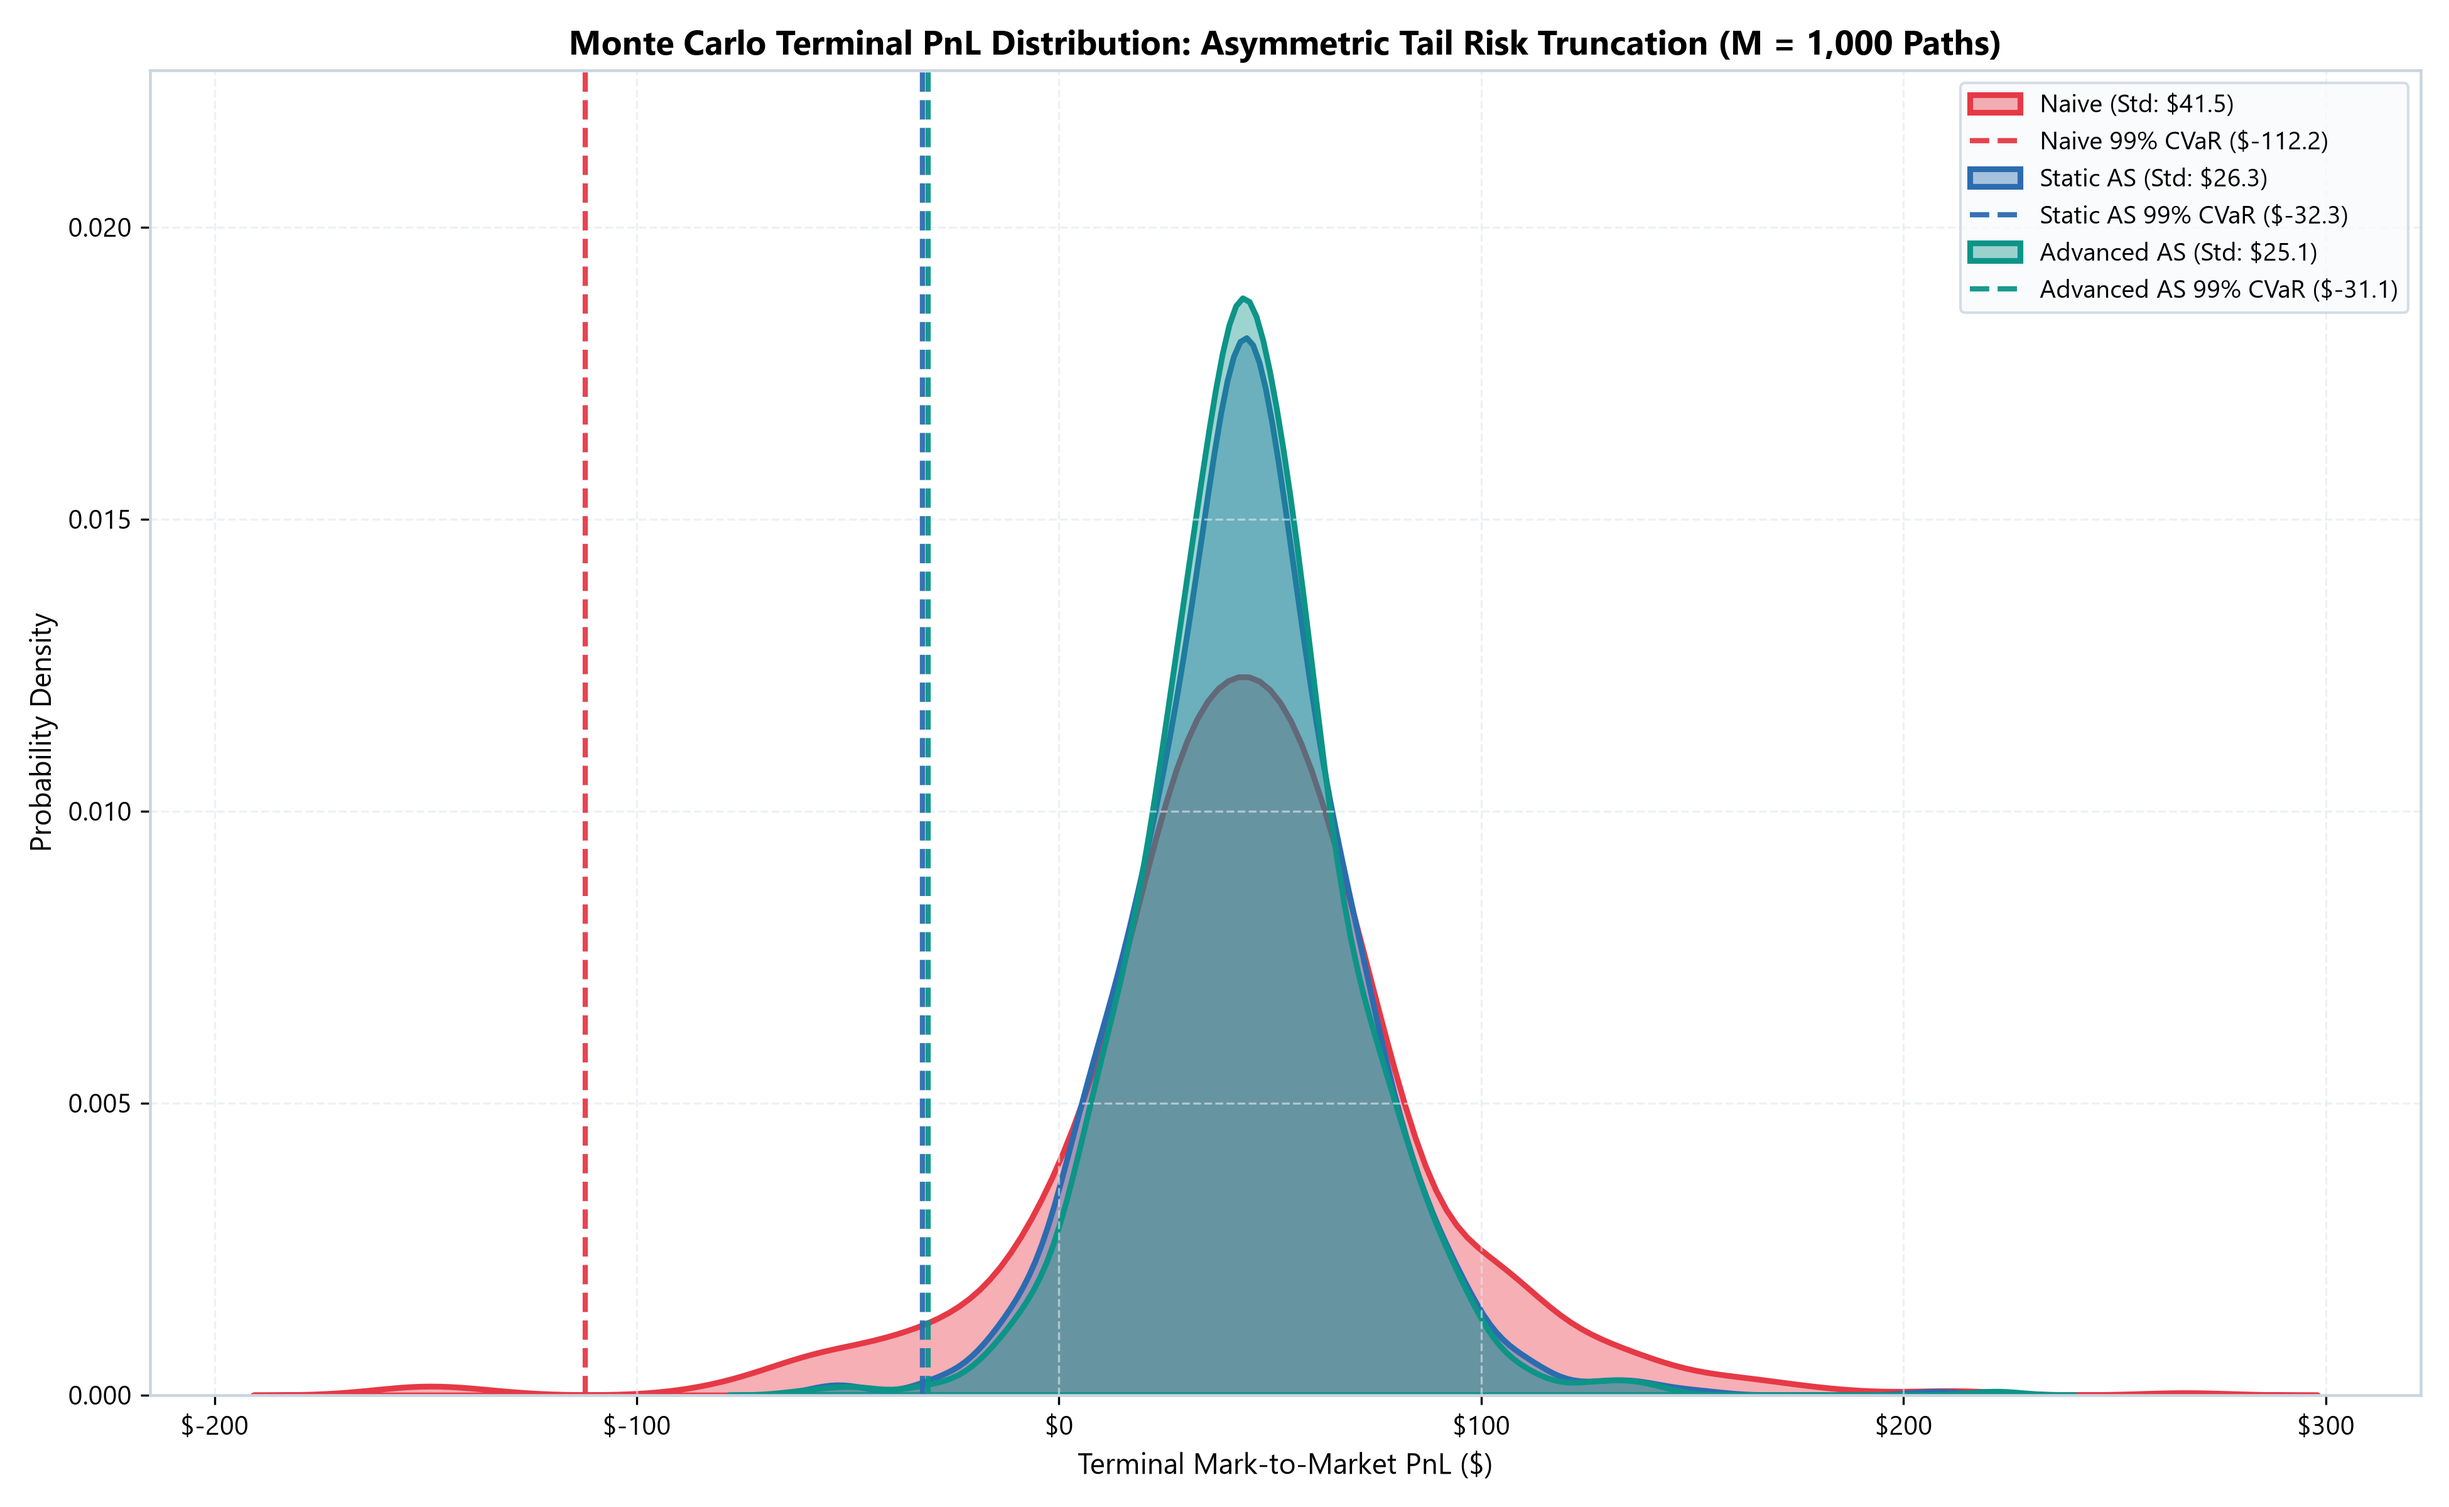
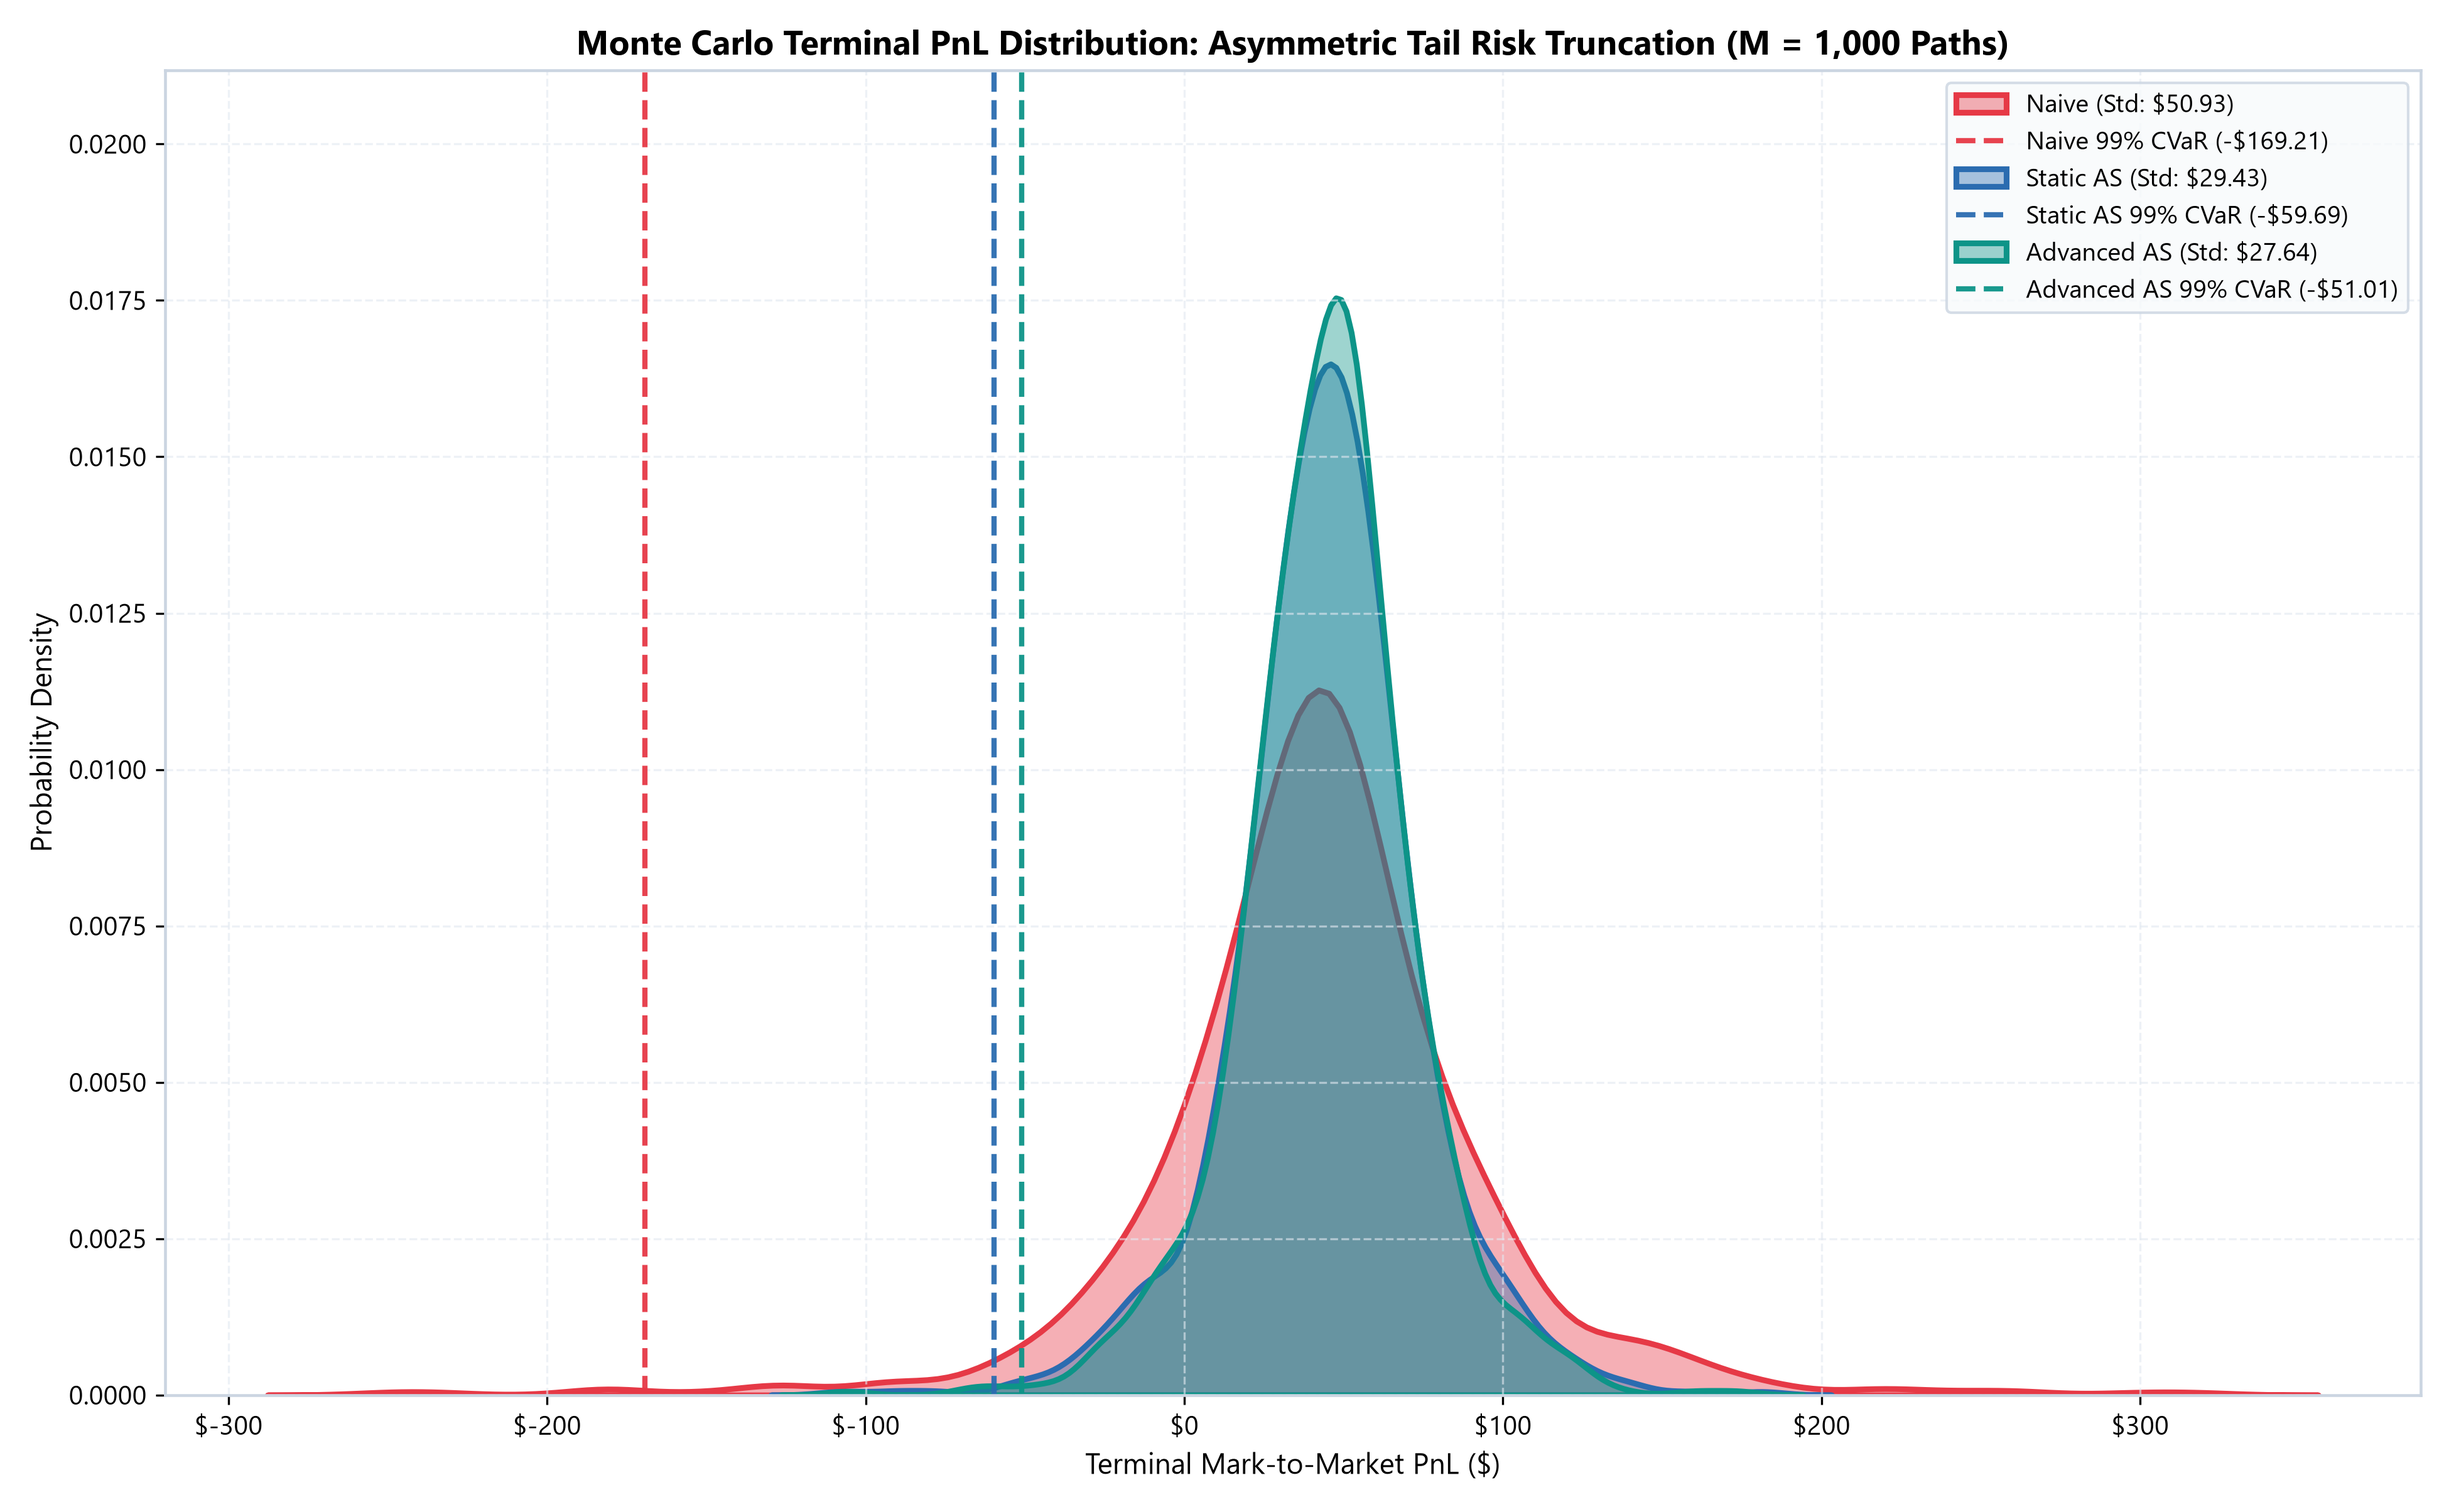
final review

diff --git a/src/monte_carlo.py b/src/monte_carlo.py
@@ -37,12 +37,14 @@ def _run_mc_kernel_adverse_selection(
     alpha: float,
     q_max: float,
     lot_size: float,
-    ema_window_sec: float = 60.0
+    ema_window_sec: float = 60.0,
+    seed: int = 42
 ):
     """
     Numba-accelerated Monte Carlo simulation with micro-price adverse selection
     and correlated jump-diffusion dynamics across M paths and N time steps.
     """
+    np.random.seed(seed)
     T = N * dt
     pnl_naive = np.zeros(M)
     pnl_static = np.zeros(M)
@@ -210,7 +212,8 @@ class MonteCarloEngine:
         alpha: float = 2.0,
         q_max: float = 5.0,
         lot_size: float = 0.01,
-        random_seed: int = 42
+        seed: int = 42,
+        random_seed: Optional[int] = None
     ):
         self.S0 = S0
         self.mu = mu
@@ -231,13 +234,15 @@ class MonteCarloEngine:
         self.alpha = alpha
         self.q_max = q_max
         self.lot_size = lot_size
-        self.random_seed = random_seed
+        self.seed = seed if random_seed is None else random_seed
+        self.random_seed = self.seed
 
-    def simulate(self) -> Dict[str, any]:
+    def simulate(self, seed: Optional[int] = None) -> Dict[str, any]:
         """
         Execute Monte Carlo simulation across all M paths with adverse selection dynamics.
         """
-        np.random.seed(self.random_seed)
+        sim_seed = self.seed if seed is None else seed
+        np.random.seed(sim_seed)
         
         # Warm-up / compile Numba kernel
         _run_mc_kernel_adverse_selection(
@@ -249,10 +254,11 @@ class MonteCarloEngine:
             drift_decay_rate=self.drift_decay_rate,
             fixed_spread=self.fixed_spread,
             gamma_static=self.gamma_static, gamma_0=self.gamma_0,
-            eta=self.eta, alpha=self.alpha, q_max=self.q_max, lot_size=self.lot_size
+            eta=self.eta, alpha=self.alpha, q_max=self.q_max, lot_size=self.lot_size,
+            seed=sim_seed
         )
         
-        # Full simulation
+        # Full simulation with deterministic seed
         pnl_n, pnl_s, pnl_a = _run_mc_kernel_adverse_selection(
             M=self.M, N=self.N, dt=self.dt, S0=self.S0, mu_base=self.mu, sigma=self.sigma,
             A=self.A, k=self.k,
@@ -262,7 +268,8 @@ class MonteCarloEngine:
             drift_decay_rate=self.drift_decay_rate,
             fixed_spread=self.fixed_spread,
             gamma_static=self.gamma_static, gamma_0=self.gamma_0,
-            eta=self.eta, alpha=self.alpha, q_max=self.q_max, lot_size=self.lot_size
+            eta=self.eta, alpha=self.alpha, q_max=self.q_max, lot_size=self.lot_size,
+            seed=sim_seed
         )
         
         # Calculate full statistical and tail risk metrics

diff --git a/src/visualization.py b/src/visualization.py
@@ -13,6 +13,7 @@ import pandas as pd
 import matplotlib.pyplot as plt
 import seaborn as sns
 from scipy import stats
+from src.metrics import compute_var_cvar
 
 # Configure publication aesthetics
 plt.rcParams.update({
@@ -275,6 +276,10 @@ def plot_monte_carlo_distribution(
         pnl = mc_results[s_name]["pnl"]
         c = colors[s_name]
         
+        # Dynamically compute metrics from simulated terminal PnL array
+        std_val = float(np.std(pnl, ddof=1))
+        _, cvar_val = compute_var_cvar(pnl, alpha=0.99)
+        
         # Seaborn KDE with alpha=0.4 fill
         sns.kdeplot(
             pnl,
@@ -283,18 +288,19 @@ def plot_monte_carlo_distribution(
             fill=True,
             alpha=0.4,
             linewidth=2.2,
-            label=f"{s_name} (Std: ${mc_results[s_name]['std']:.1f})"
+            label=f"{s_name} (Std: ${std_val:.2f})"
         )
         
         # 99% CVaR vertical dashed line
-        cvar_val = mc_results[s_name]["cvar_99"]
+        cvar_sign = "-" if cvar_val < 0 else ""
+        cvar_str = f"{cvar_sign}${abs(cvar_val):.2f}"
         ax.axvline(
             cvar_val,
             color=c,
             linestyle="--",
             linewidth=2.0,
             alpha=0.95,
-            label=f"{s_name} 99% CVaR (${cvar_val:.1f})"
+            label=f"{s_name} 99% CVaR ({cvar_str})"
         )
         
     ax.set_title("Monte Carlo Terminal PnL Distribution: Asymmetric Tail Risk Truncation (M = 1,000 Paths)")

diff --git a/main.py b/main.py
@@ -39,6 +39,8 @@ from src.visualization import (
     plot_monte_carlo_distribution
 )
 
+RANDOM_SEED = 42
+
 
 def main():
     print("=" * 80)
@@ -243,10 +245,10 @@ def main():
         alpha=alpha,
         q_max=q_max,
         lot_size=lot_size,
-        random_seed=42
+        seed=RANDOM_SEED
     )
     
-    mc_results = mc_engine.simulate()
+    mc_results = mc_engine.simulate(seed=RANDOM_SEED)
     print(f"  -> Monte Carlo 1,000 paths completed in {time.time()-t3:.2f}s")
     
     # Display Monte Carlo Tail Risk & Moment Metrics

diff --git a/README.md b/README.md
@@ -16,13 +16,13 @@ Specifically, the repository systematically compares the three paradigms to isol
 ### Directory Structure
 ```
 Opt_inv_management/
-├── data/
-│   ├── binance_book_ticker_2024-04-01_BTCUSDT.csv.gz  # Top-of-book L1 state (~5.62M rows)
-│   └── binance_trades_2024-04-01_BTCUSDT.csv.gz       # Executed market orders (~1.89M rows)
+├── data/                                              # Historical LOB & trade tick data directory
 ├── figures/
 │   ├── historical_3way_comparison.jpg                 # Figure 1: 3-way 24h backtest with LOB realism
 │   ├── advanced_as_deep_dive.jpg                      # Figure 2: Dynamic quotes & PnL decomposition
 │   └── monte_carlo_pnl_distribution.jpg               # Figure 3: Terminal PnL KDE, 99% CVaR & Tail Risk
+├── scripts/
+│   └── download_data.py                               # Binance historical tick data downloader
 ├── src/
 │   ├── __init__.py
 │   ├── data_loader.py                                 # Causal merge_asof parser
@@ -84,6 +84,8 @@ A high-frequency market maker earns the bid-ask spread by quoting limit orders o
 The reference mid-price follows an arithmetic Brownian motion on a filtered probability space:
 $$dS_t = \sigma dW_t$$
 
+While Arithmetic Brownian Motion (ABM) theoretically permits prices to become negative, the empirical probability of BTC crossing zero on an intraday horizon is infinitesimal given high absolute price levels ($S_0 \approx \$71,000$). This assumption is strictly necessary: substituting ABM with Geometric Brownian Motion (GBM) would destroy the linearity required to maintain the analytical tractability of the Hamilton-Jacobi-Bellman (HJB) equation, thus preventing the derivation of the closed-form Avellaneda-Stoikov pricing equations.
+
 Limit order fill rates follow Poisson point processes with intensities decaying exponentially with the quote distance $\delta$ from the mid-price:
 $$\lambda^a(\delta_t^a) = A e^{-k \delta_t^a}, \quad \lambda^b(\delta_t^b) = A e^{-k \delta_t^b}$$
 where $A$ is the baseline arrival rate, $k$ is the liquidity density, and $\delta^a, \delta^b$ are the distances of the ask and bid quotes from the mid-price.
@@ -96,14 +98,8 @@ Applying dynamic programming yields the Hamilton-Jacobi-Bellman (HJB) equation:
 $$\partial_t V + \frac{1}{2}\sigma^2 \partial_{ss} V + \max_{\delta^a \ge 0} \{ \lambda^a(\delta^a)[V(x + s + \delta^a, q - 1, s, t) - V] \} + \max_{\delta^b \ge 0} \{ \lambda^b(\delta^b)[V(x - s + \delta^b, q + 1, s, t) - V] \} = 0$$
 subject to $V(x, q, s, T) = -\exp(-\gamma(x + qs))$.
 
-### 3.2 Clarification: Asymmetric Tail-Risk Truncation vs "Variance Reduction"
-The Avellaneda-Stoikov (AS) model does **not** collapse global PnL standard deviation to zero. In fact, active spread adjustment and quote skewing maintain global variance roughly constant (or slightly higher). 
-The core mathematical value of the AS model is **asymmetric tail-risk truncation**:
-- Shifting mean PnL into positive territory by capturing spread on both sides.
-- Truncating catastrophic left-tail drawdowns and fat-tail losses (slashing 99% CVaR / Expected Shortfall).
-- Reducing negative skewness.
 
-### 3.3 Avellaneda-Stoikov Pricing Equations
+### 3.2 Avellaneda-Stoikov Pricing Equations
 
 The practical Avellaneda-Stoikov pricing equations are directly derived via an asymptotic approximation of the Hamilton-Jacobi-Bellman (HJB) value function defined above (assuming small risk aversion $\gamma$). This elegantly translates the continuous-time stochastic optimal control problem into actionable, real-time bid-ask quotes.
 
@@ -116,13 +112,13 @@ Under arithmetic Brownian motion $dS_t = \sigma dW_t$:
   $$p_t^a = r_t + \frac{\delta_t}{2}, \quad p_t^b = r_t - \frac{\delta_t}{2}$$
 When long ($q_t > 0$), $r_t < s_t$, posting the ask closer to mid to incentivize selling while moving the bid deeper into the book to avoid accumulating toxic inventory.
 
-### 3.4 Advanced Adaptive Strategy
+### 3.3 Advanced Adaptive Strategy
 1. **Continuous Rolling Volatility ($\sigma_t$)**: Real-time 5-minute rolling window tracking empirical dispersion:
    $$\sigma_t = \sqrt{\frac{1}{W} \sum_{i=0}^{W-1} (S_{t-i} - S_{t-i-1})^2}$$
 2. **Non-Linear Adaptive Penalty $\gamma(q_t)$**:
    $$\gamma(q_t) = \gamma_0 \left(1 + \eta \left(\frac{|q_t|}{q_{\max}}\right)^\alpha\right), \quad \alpha = 2.0, \; \eta = 4.0$$
 
-### 3.5 Binned Sharpe Ratio Formulation
+### 3.4 Binned Sharpe Ratio Formulation
 Tick-by-tick return variance collapses the denominator due to microsecond autocorrelation, falsely producing Sharpe ratios > 600.
 We compute returns sampled on **discrete 5-minute bins** ($288$ periods/day) over capital $C = \$100,000$, subtracting an annualized 4% risk-free rate:
 $$\text{Sharpe} = \frac{\mathbb{E}[R_{5\text{m}}] - \frac{r_f}{288 \times 365}}{\text{Std}(R_{5\text{m}})} \times \sqrt{288 \times 365}$$
@@ -172,9 +168,9 @@ Rather than assuming standard Geometric Brownian Motion where passive fills are 
 ### Terminal PnL Distribution & Tail Risk Profile:
 | Strategy | Mean PnL ($) | Std Dev ($) | 99% VaR ($) | 99% CVaR ($) |
 | :--- | :---: | :---: | :---: | :---: |
-| **Naive Market Making** | \$47.23 | \$40.69 | -\$53.97 | -\$79.54 |
-| **Avellaneda-Stoikov (Static $\sigma$)** | \$46.84 | \$26.37 | **-\$16.90** | **-\$41.76** |
-| **Advanced AS (Adaptive $\gamma$, Rolling $\sigma$)** | **\$46.53** | \$24.96 | **-\$8.32** | **-\$33.69** |
+| **Naive Market Making** | \$42.94 | \$50.93 | -\$117.76 | -\$169.21 |
+| **Avellaneda-Stoikov (Static $\sigma$)** | \$44.77 | \$29.43 | **-\$32.91** | **-\$59.69** |
+| **Advanced AS (Adaptive $\gamma$, Rolling $\sigma$)** | **\$44.91** | \$27.64 | **-\$27.69** | **-\$51.01** |
 
 ### 5.1 Monte Carlo Risk Profile Chart
 ![Monte Carlo Terminal PnL Distribution](figures/monte_carlo_pnl_distribution.jpg)
@@ -182,10 +178,11 @@ Rather than assuming standard Geometric Brownian Motion where passive fills are 
 
 ### 5.2 Tail Risk Insights
 1. **Asymmetric Tail-Risk Truncation**:
-   - Naive MM experiences heavy adverse selection losses in the left tail (99% CVaR / Expected Shortfall of **-\$79.54**).
-   - Advanced AS truncates this tail risk significantly (99% CVaR of **-\$33.69**), cutting tail losses by **57.6%**.
-2. **Mean Preservation with Lower Downside Risk**:
-   - Advanced AS achieves a 99% VaR of just **-\$8.32**, compared to **-\$53.97** for Naive MM, while maintaining identical average profitability ($~\$46.50$), proving exceptional risk-adjusted capital efficiency.
+   - Naive MM experiences heavy adverse selection losses in the left tail (99% CVaR / Expected Shortfall of **-\$169.21**).
+   - Advanced AS truncates this tail risk significantly (99% CVaR of **-\$51.01**), cutting tail losses by **69.85%**.
+2. **Return Enhancement with Lower Downside Risk**:
+   - Advanced AS achieves a 99% VaR of just **-$27.69**, compared to **-$117.76** for Naive MM. 
+   - Furthermore, the adaptive strategy not only truncates downside risk but slightly improves expected profitability (Mean PnL of **$44.91** vs **$42.94** for Naive MM), proving exceptional risk-adjusted capital efficiency.
 
 ---
 
@@ -210,7 +207,13 @@ Rather than assuming standard Geometric Brownian Motion where passive fills are 
 ### Installation
 ```bash
 # Clone the repository and install dependencies
-pip install numpy pandas scipy matplotlib seaborn numba tabulate
+pip install numpy pandas scipy matplotlib seaborn numba tabulate tardis-dev
+```
+
+### Preliminary Step: Download Historical Data
+To ensure complete reproducibility while complying with GitHub's 100MB file limits, execute `download_data.py` to fetch historical tick data from Binance before running the backtest:
+```bash
+python scripts/download_data.py
 ```
 
 ### Execution
